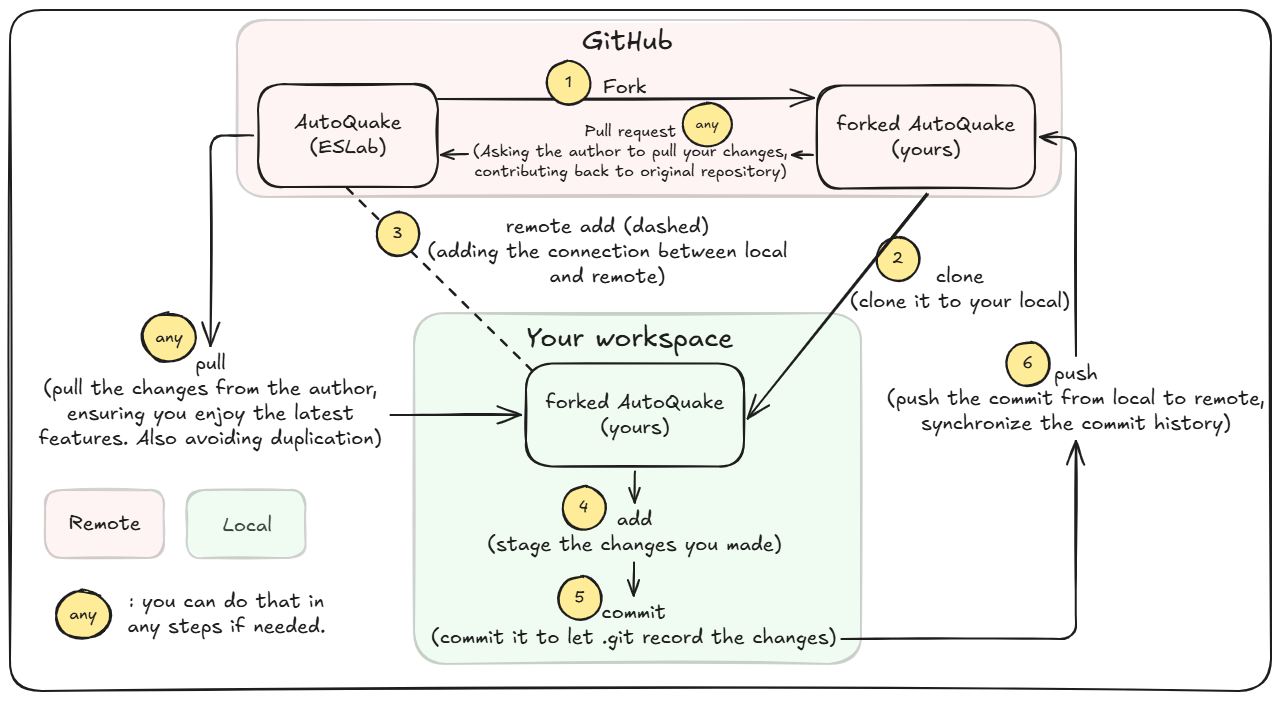
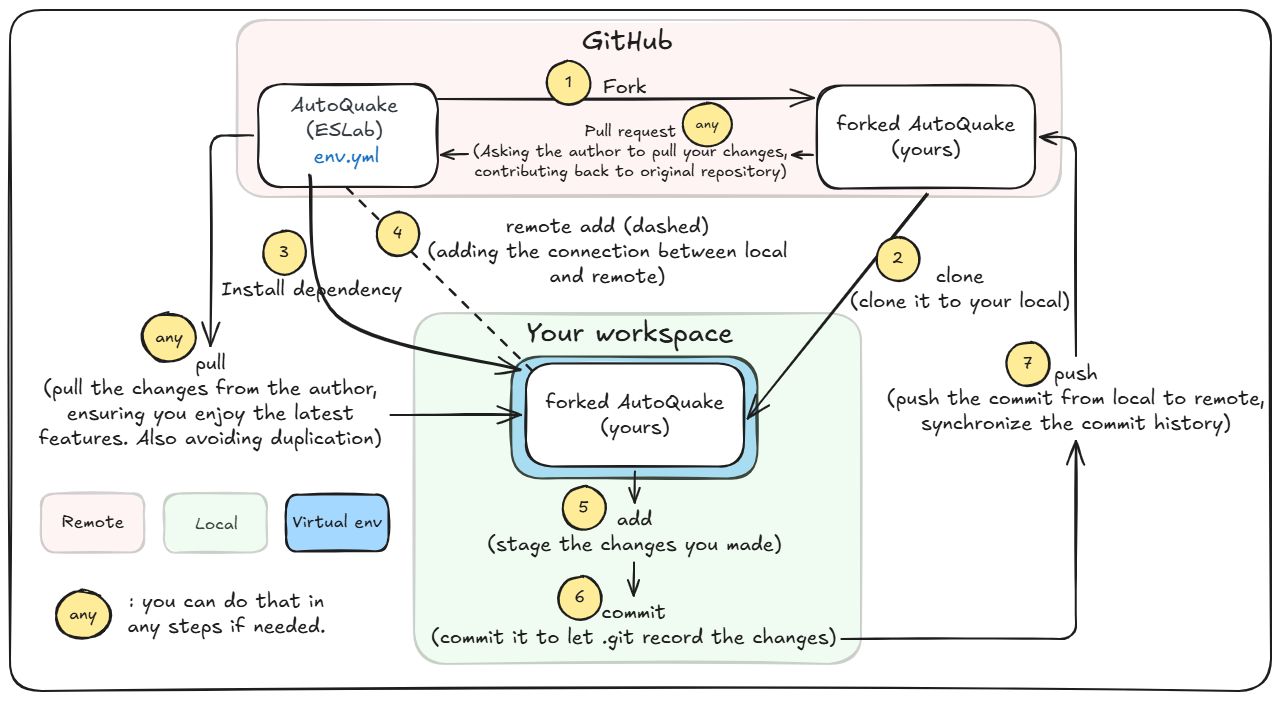
update.

diff --git a/README.md b/README.md
@@ -54,15 +54,15 @@ If you’re interested in contributing to the development of this project, follo
    ```bash
    git remote add upstream https://github.com/IES-ESLab/AutoQuake.git
    ```
-4. **Make your changes**:
+5. **Make your changes**:
    ```bash
    git add .
    ```
-5. **commit** them:
+6. **commit** them:
    ```bash
    git commit -m "Description of your changes"
    ```
-6. **Push your changes** to your forked repository when you're ready to share your work:
+7. **Push your changes** to your forked repository when you're ready to share your work:
    ```bash
    git push origin feature/your-feature-name
    ```
